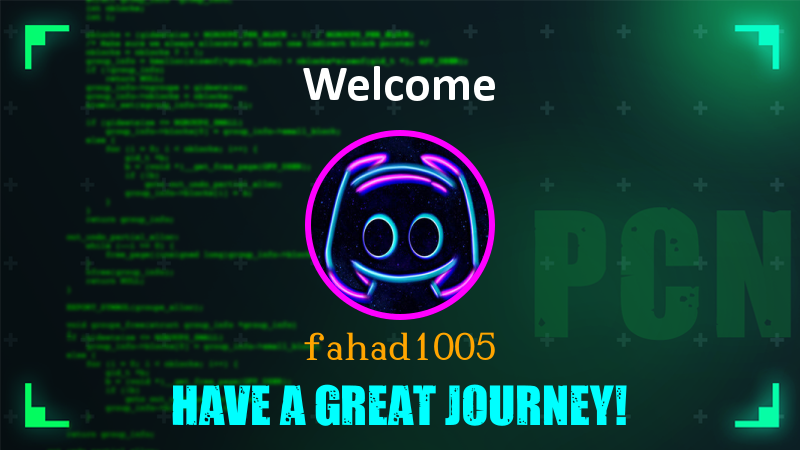
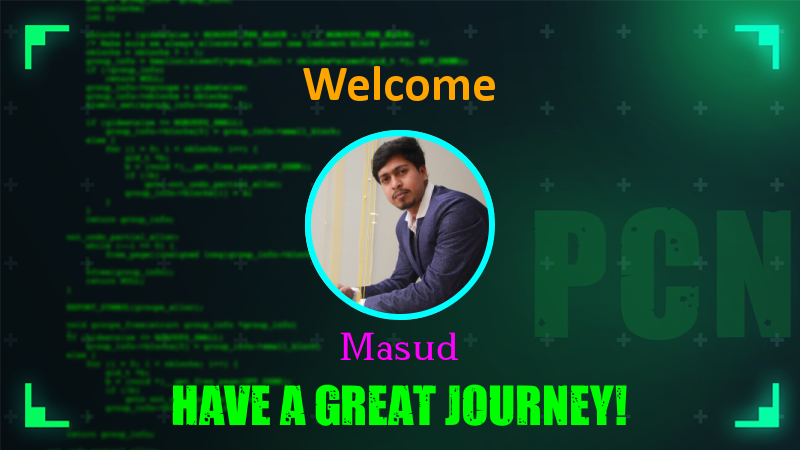
huge modifications

Changed region(s): [[0.375, 0.28, 0.625, 0.8089], [0.1875, 0.84, 0.7812, 0.9644], [0.375, 0.1556, 0.625, 0.2489]]

diff --git a/helperFunctions.js b/helperFunctions.js
@@ -2,7 +2,7 @@ const { MessageAttachment } = require('discord.js');
 const fs = require('fs');
 const { registerFont, createCanvas, loadImage } = require('canvas');
 
-const colors = ['#00FFFF', '#FF00FF', '#fff', '#FFFF00', '#00FF00', '#FFA500',];
+const colors = ['#00FFFF', '#FF00FF', '#fff', '#FFFF00', '#00FF00', '#FFA500'];
 
 function sendMessage(msgObj, message) {
     msgObj.reply(message)
@@ -14,11 +14,31 @@ function deleteMessage(msgObj) {
     msgObj.delete();
 }
 
+function sendMessageNotReply(messageObj, content){
+    messageObj.channel.send(content);
+}
+
 function messageHandler(message) {
-    if (message.content.toLowerCase() === 'hello') {
+    if(message.channel.id === "980787684391915520"){
+        if(message.content === 'printf("contestant");'){
+            const user = message.member;
+            sendMessageNotReply(message, `Okay <@${message.author.id}>,\nI believe that. You are added to the Contestant team successfully.`);
+            deleteMessage(message);
+            roleManager(user, "974722363386122280", true, true);
+        }
+        else if(message.content.toLowerCase() === 'printf("contestant");'){
+            sendMessage(message, `There is slight error your in your code. Do you remember that **C** is a *case sensitive* language?`);
+        }
+        else if(message.content.toLowerCase() === 'printf("contestant")'){
+            sendMessage(message, `Oops!!, There is a syntax error in your code. I doubt if you are a true contestant or not 😕`);
+        }
+        else{
+            sendMessage(message, `⛔ Please don't send random text here.`)
+        }
+    }else if (message.content.toLowerCase() === 'hello') {
         sendMessage(message, `Hi @${message.author.username}`);
     }else if(message.content.toLowerCase() === 'invite'){
-        message.reply(`The public invitation link for this server is https://discord.gg/rpudFRTBJj`).then(msg => setTimeout(() => msg.delete(), 5000));
+        message.reply(`The public invitation link for this server is https://discord.gg/rpudFRTBJj`).then(msg => setTimeout(() => msg.delete(), 25000));
     } else if (message.content.toLowerCase() === 'how are you?') {
         message.react('❤');
         sendMessage(message, "I'm good! What about you?");
@@ -177,7 +197,7 @@ async function constructImageAndSend(memberObj, channel, upper = "Welcome", tagl
                 let message = `Huh! ${username} has just left us`;
 
                 if (upper.toLowerCase() == 'welcome')
-                    message = `For detailed guide visit <#974719552929796108>.`;
+                    message = `Welcome <@${memberObj.id}>,\nFor detailed guide please visit <#974719552929796108> and follow.`;
 
                 channel.send({ files: [attachments], content: message });
                 return true;

diff --git a/commands/addreact.js b/commands/addreact.js
@@ -1,10 +1,12 @@
 const { SlashCommandBuilder } = require('@discordjs/builders')
 const { Permissions } = require('discord.js');
 
+const COMMAND_CHANNEL = "975479301342367774";
+
 module.exports = {
     data: new SlashCommandBuilder()
         .setName('addreact')
-        .setDescription('Adds a reaction to a message!')
+        .setDescription('Adds a reaction to a message! Needs to be a moderator')
         .addStringOption(option =>
             option.setName('channel')
                 .setDescription('Channel to get the message!')
@@ -21,8 +23,8 @@ module.exports = {
                 .setRequired(true)
         ),
     async execute(interaction) {
-        if (!interaction.member.permissions.has(Permissions.FLAGS.ADD_REACTIONS)) {
-            interaction.reply({ content: `You don't have permission to send messages to ${interaction.member.channel}.`, ephemeral: true });
+        if (interaction.channel.id !== COMMAND_CHANNEL) {
+            interaction.reply({ content: `You can't add reaction. You need to be a moderator to use this command`, ephemeral: true });
             return
         }
         let channel = interaction.options.get('channel').value.replace(/<#|>/gm, '');

diff --git a/events/messageReactionAdd.js b/events/messageReactionAdd.js
@@ -2,9 +2,9 @@ const section = require("../assets/rules/section.json");
 const semester = require("../assets/rules/semester.json");
 const department = require("../assets/rules/department.json");
 const MessageIds = require("../assets/jsonDB/messageIdDB.json");
-const sectionRoles = require("../assets/jsonDB/sectionRolesDB.json");
+const sectionRoles = require("../assets/jsonDB/SectionRolesDB.json");
 const semesterRoles = require("../assets/jsonDB/semesterRolesDB.json");
-const departmentRoles = require("../assets/jsonDB/departmentRolesDB.json");
+const departmentRoles = require("../assets/jsonDB/DepartmentRolesDB.json");
 const { roleManager } = require("../helperFunctions");
 
 module.exports = {
@@ -12,7 +12,7 @@ module.exports = {
     async execute(reaction, user) {
         const member = await reaction.message.guild.members.fetch(user.id);
 
-        if (reaction.emoji.name === 'pcn' && reaction.message.id === MessageIds.SaveRoles) {
+        if (reaction.emoji.name === 'pcn_square' && reaction.message.id === MessageIds.SaveRoles) {
             roleManager(member, 'Select Your Roles', false);
             return;
         }

diff --git a/member-count.js b/member-count.js
@@ -1,7 +1,6 @@
 
-const { token, guildId, clientId } = require('./config.json');
-
 module.exports = client => {
+    
     const channelId = "977875081378275358";
 
 
@@ -10,13 +9,13 @@ module.exports = client => {
         const mem = guild.memberCount;
         const botMem = guild.members.cache.filter(m => m.user.bot).size;
         const organicMember = eval(mem - botMem);
-        channel.setName(`Members: 👤 ${organicMember}`);
+        channel.setName(`👥┋Members: ${organicMember}`);
     }
 
     client.on('guildMemberAdd', (member) => updateMember(member.guild));
     client.on('guildMemberRemove', (member) => updateMember(member.guild));
 
-    const guild = client.guilds.cache.get(guildId);
+    const guild = client.guilds.cache.get(process.env.guildId);
     updateMember(guild);
 
 }

diff --git a/index.js b/index.js
@@ -1,7 +1,7 @@
 const fs = require('node:fs');
 const path = require('node:path');
 const { Client, Intents, Collection, Permissions } = require('discord.js');
-const { token, guildId, clientId } = require('./config.json');
+// const { token, guildId, clientId } = require('./config.json');
 const helpers = require('./helperFunctions.js');
 
 const client = new Client({
@@ -34,4 +34,5 @@ for (const file of eventFiles) {
     }
 }
 
-client.login(token);
+client.login(process.env.DS_BOT_TOKEN);
+// client.login(token);

diff --git a/events/guidMemberAdd.js b/events/guidMemberAdd.js
@@ -3,7 +3,7 @@ const { roleManager, constructImageAndSend } = require('../helperFunctions');
 module.exports = {
     name: 'guildMemberAdd',
     async execute(member) {
-        const channel = member.guild.channels.cache.find(channel => channel.name === 'welcome-and-goodbyes');
+        const channel = member.guild.channels.cache.find(channel => channel.id === '965667610903597139');
         if (!channel) {
             console.log('Channel not found.');
             return;

diff --git a/events/guildMemberRemove.js b/events/guildMemberRemove.js
@@ -3,7 +3,7 @@ const { constructImageAndSend } = require('../helperFunctions');
 module.exports = {
     name: 'guildMemberRemove',
     async execute(member) {
-        const channel = member.guild.channels.cache.find(channel => channel.name === 'welcome-and-goodbyes');
+        const channel = member.guild.channels.cache.find(channel => channel.id === '965667610903597139');
         if (!channel) {
             console.log('Channel not found.');
             return;

diff --git a/events/ready.js b/events/ready.js
@@ -7,11 +7,12 @@ module.exports = {
     once: true,
     execute(client) {
         console.log(`Logged in as ${client.user.tag}!`);
-        client.user.setActivity("Muza's PC! 😐", { type: 'COMPETING' });
+        client.user.setActivity("the web 🕸", { type: 'COMPETING' });
         client.user.setStatus('idle');
         // console.log(client.commands);
         console.log("PCN is up and ready!");
 
+        
         memberCount(client);
     },
 };

diff --git a/a.js b/a.js
@@ -1,3 +1,6 @@
 import 'assets/rules/section.json';
 
 console.log("🇦".role);
+
+
+console.log("Haha, testing....Woew!!!");
